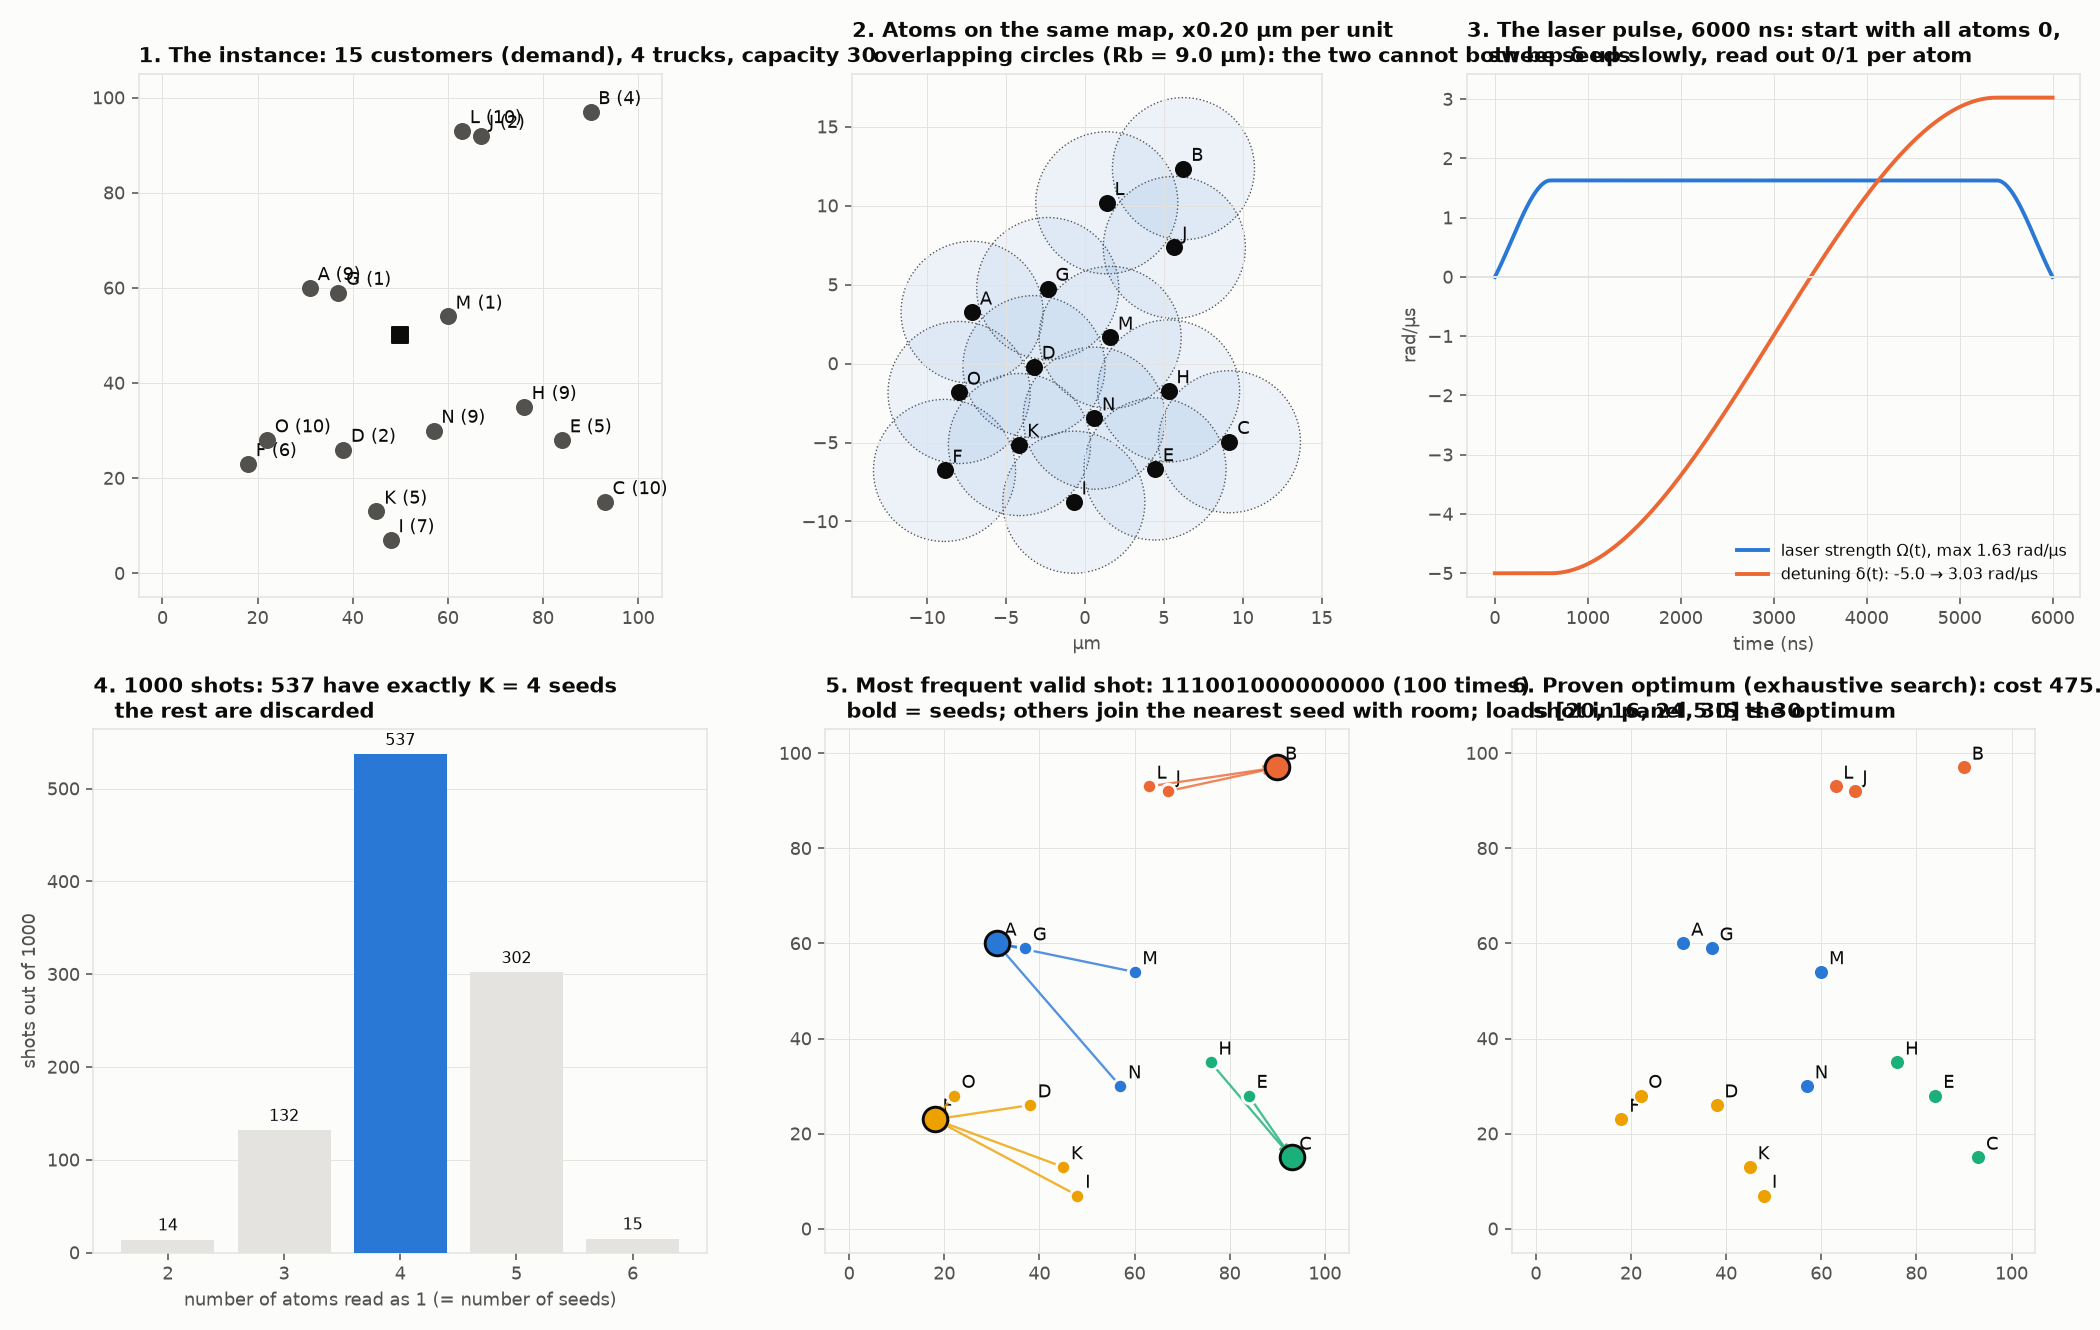
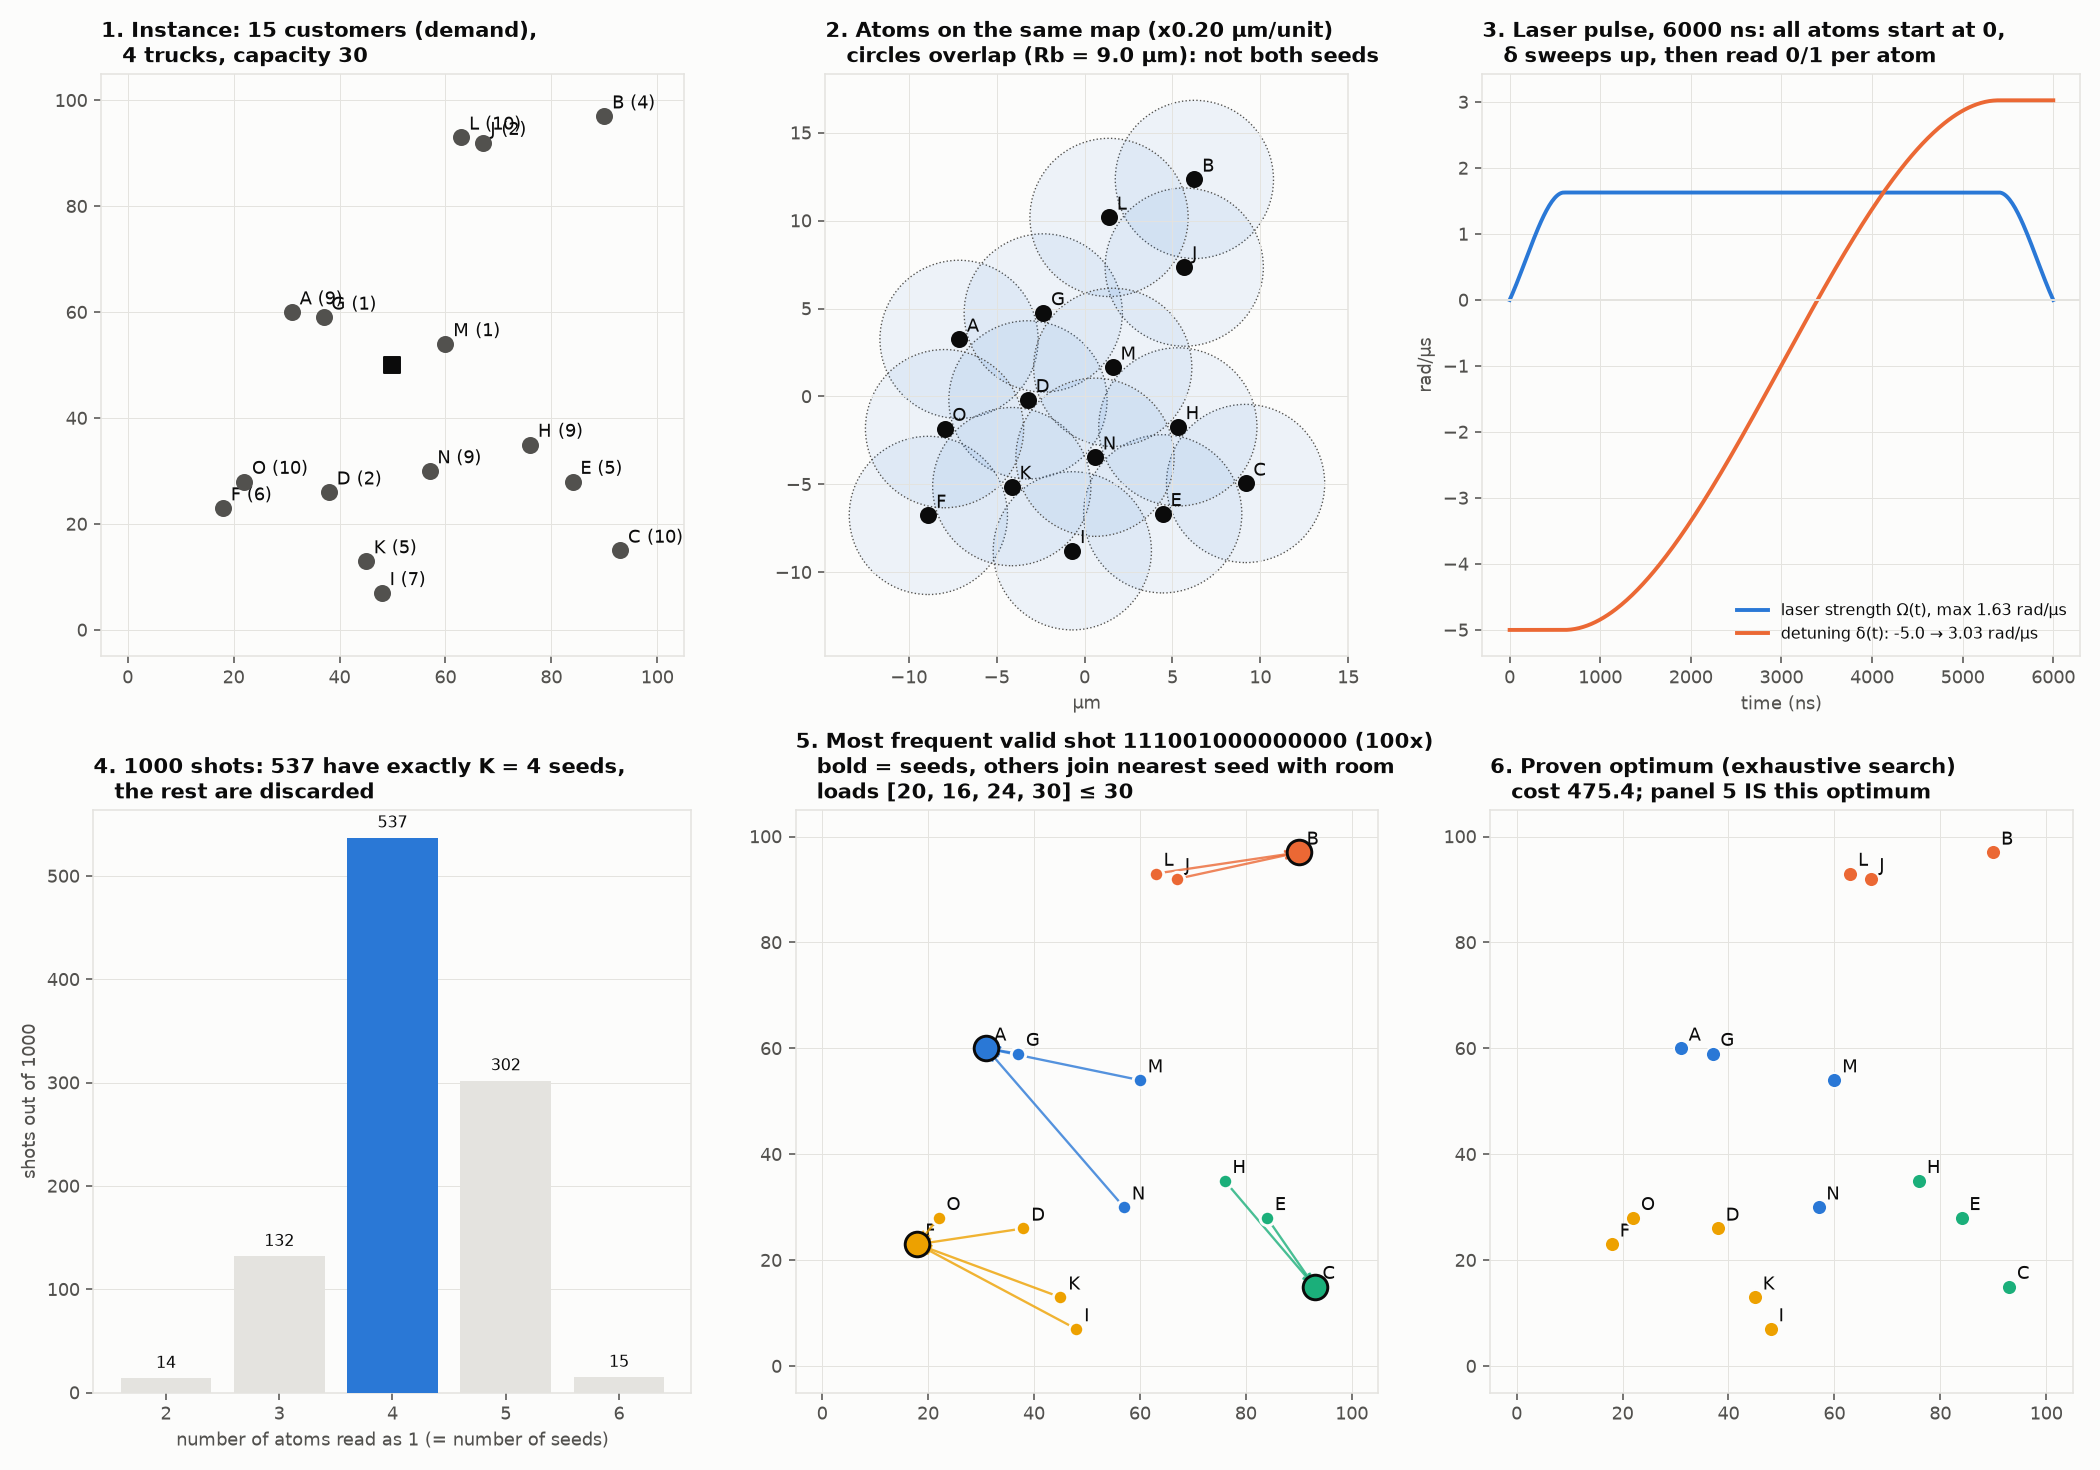
Mechanism figure: fix overlapping titles
Claude-Session: https://claude.ai/code/session_01WWAMVepUvYFZtEHksEWdun

diff --git a/cvrp/report_mechanism.py b/cvrp/report_mechanism.py
@@ -32,14 +32,14 @@ def main(name="M_seed0"):
     P = np.asarray(inst.coords, float)
     lab = [chr(65 + i) for i in range(inst.N)]
 
-    fig, axs = plt.subplots(2, 3, figsize=(15, 9.5))
+    fig, axs = plt.subplots(2, 3, figsize=(15, 10.5))
     ax = axs[0, 0]
     ax.scatter(P[:, 0], P[:, 1], s=60, color=INK2, zorder=4)
     ax.scatter(50, 50, marker="s", s=70, color=INK, zorder=5)
     for i in range(inst.N):
         ax.annotate(f"{lab[i]} ({inst.demands[i]})", P[i], xytext=(4, 4), textcoords="offset points")
     ax.set_xlim(-5, 105); ax.set_ylim(-5, 105); ax.set_aspect("equal"); ax.grid(color=GRID, lw=0.5)
-    ax.set_title(f"1. The instance: {inst.N} customers (demand), {inst.K} trucks, capacity {inst.Q}", loc="left", fontweight="bold")
+    ax.set_title(f"1. Instance: {inst.N} customers (demand),\n   {inst.K} trucks, capacity {inst.Q}", loc="left", fontweight="bold")
 
     ax = axs[0, 1]
     for i in range(inst.N):
@@ -48,7 +48,7 @@ def main(name="M_seed0"):
         ax.scatter(*X[i], s=60, color=INK, zorder=5)
         ax.annotate(lab[i], X[i], xytext=(4, 4), textcoords="offset points")
     ax.set_aspect("equal"); ax.grid(color=GRID, lw=0.5); ax.set_xlabel("µm")
-    ax.set_title(f"2. Atoms on the same map, x{L['alpha']:.2f} µm per unit\n   overlapping circles (Rb = {Rb} µm): the two cannot both be seeds",
+    ax.set_title(f"2. Atoms on the same map (x{L['alpha']:.2f} µm/unit)\n   circles overlap (Rb = {Rb} µm): not both seeds",
                  loc="left", fontweight="bold")
 
     ax = axs[0, 2]
@@ -60,7 +60,7 @@ def main(name="M_seed0"):
     ax.axhline(0, color=GRID, lw=1)
     ax.set_xlabel("time (ns)"); ax.set_ylabel("rad/µs"); ax.legend(frameon=False, loc="lower right", fontsize=8)
     ax.grid(color=GRID, lw=0.5)
-    ax.set_title(f"3. The laser pulse, {T} ns: start with all atoms 0,\n   sweep δ up slowly, read out 0/1 per atom", loc="left", fontweight="bold")
+    ax.set_title(f"3. Laser pulse, {T} ns: all atoms start at 0,\n   δ sweeps up, then read 0/1 per atom", loc="left", fontweight="bold")
 
     ax = axs[1, 0]
     hist = Counter()
@@ -71,7 +71,7 @@ def main(name="M_seed0"):
     for b_, k in zip(bars, ks):
         ax.text(b_.get_x() + b_.get_width() / 2, b_.get_height() + 10, str(hist[k]), ha="center", fontsize=8)
     ax.set_xlabel("number of atoms read as 1 (= number of seeds)"); ax.set_ylabel("shots out of 1000")
-    ax.set_title(f"4. 1000 shots: {hist[inst.K]} have exactly K = {inst.K} seeds\n   the rest are discarded", loc="left", fontweight="bold")
+    ax.set_title(f"4. 1000 shots: {hist[inst.K]} have exactly K = {inst.K} seeds,\n   the rest are discarded", loc="left", fontweight="bold")
     ax.grid(axis="y", color=GRID, lw=0.5); ax.set_axisbelow(True)
 
     # most frequent feasible shot
@@ -93,7 +93,7 @@ def main(name="M_seed0"):
             ax.annotate("", xy=P[s], xytext=P[i], arrowprops=dict(arrowstyle="->", color=COLS[t_ % 4], lw=1.2, alpha=0.8))
     loads = [sum(inst.demands[i] for i in range(inst.N) if assign[i] == t_) for t_ in range(inst.K)]
     ax.set_xlim(-5, 105); ax.set_ylim(-5, 105); ax.set_aspect("equal"); ax.grid(color=GRID, lw=0.5)
-    ax.set_title(f"5. Most frequent valid shot: {b} ({c} times)\n   bold = seeds; others join the nearest seed with room; loads {loads} ≤ {inst.Q}",
+    ax.set_title(f"5. Most frequent valid shot {b} ({c}x)\n   bold = seeds, others join nearest seed with room\n   loads {loads} ≤ {inst.Q}",
                  loc="left", fontweight="bold")
 
     ax = axs[1, 2]
@@ -104,9 +104,9 @@ def main(name="M_seed0"):
         ax.annotate(lab[i], P[i], xytext=(4, 4), textcoords="offset points")
     same = groups == __import__("cvrp.reference", fromlist=["assignment_to_groups"]).assignment_to_groups(assign, inst.K)
     ax.set_xlim(-5, 105); ax.set_ylim(-5, 105); ax.set_aspect("equal"); ax.grid(color=GRID, lw=0.5)
-    ax.set_title(f"6. Proven optimum (exhaustive search): cost {inst.references['model_optimum']:.1f}\n   "
-                 f"shot in panel 5 {'IS the optimum' if same else 'is not the optimum'}", loc="left", fontweight="bold")
-    fig.tight_layout()
+    ax.set_title(f"6. Proven optimum (exhaustive search)\n   cost {inst.references['model_optimum']:.1f}; "
+                 f"panel 5 {'IS' if same else 'is NOT'} this optimum", loc="left", fontweight="bold")
+    fig.tight_layout(h_pad=2.0, w_pad=1.5)
     out = FIG / f"mechanism_B_{name}.png"
     fig.savefig(out, dpi=140)
     print("wrote", out, "| shot", b, "x", c, "| optimum reached:", same)
